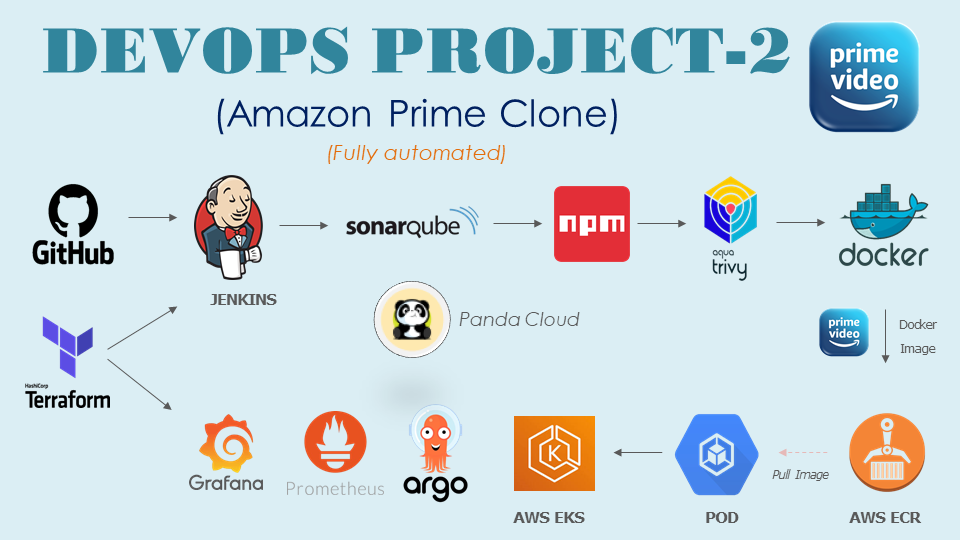
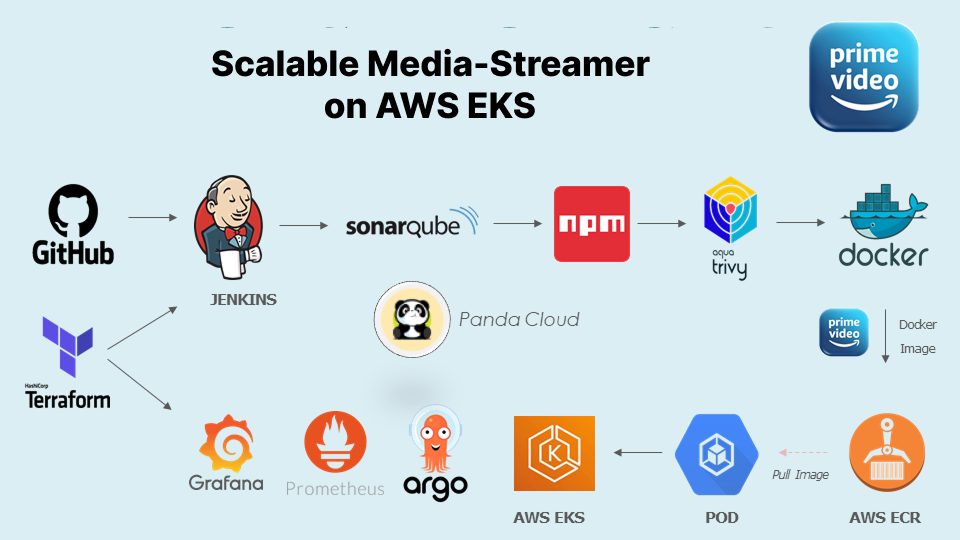
some changes in readme

Changed region(s): [[0.0312, 0.0296, 0.8438, 0.237], [0.3438, 0.2667, 0.5312, 0.2963]]

diff --git a/Amazon Prime Clone/README.md b/Amazon Prime Clone/README.md
@@ -1,4 +1,4 @@
-# Amazon Prime Clone Deployment Project
+# Scalable Media-Streamer on AWS EKS
 ![Pipeline Overview](./src/Overview.png)
 
 ## Project Overview
